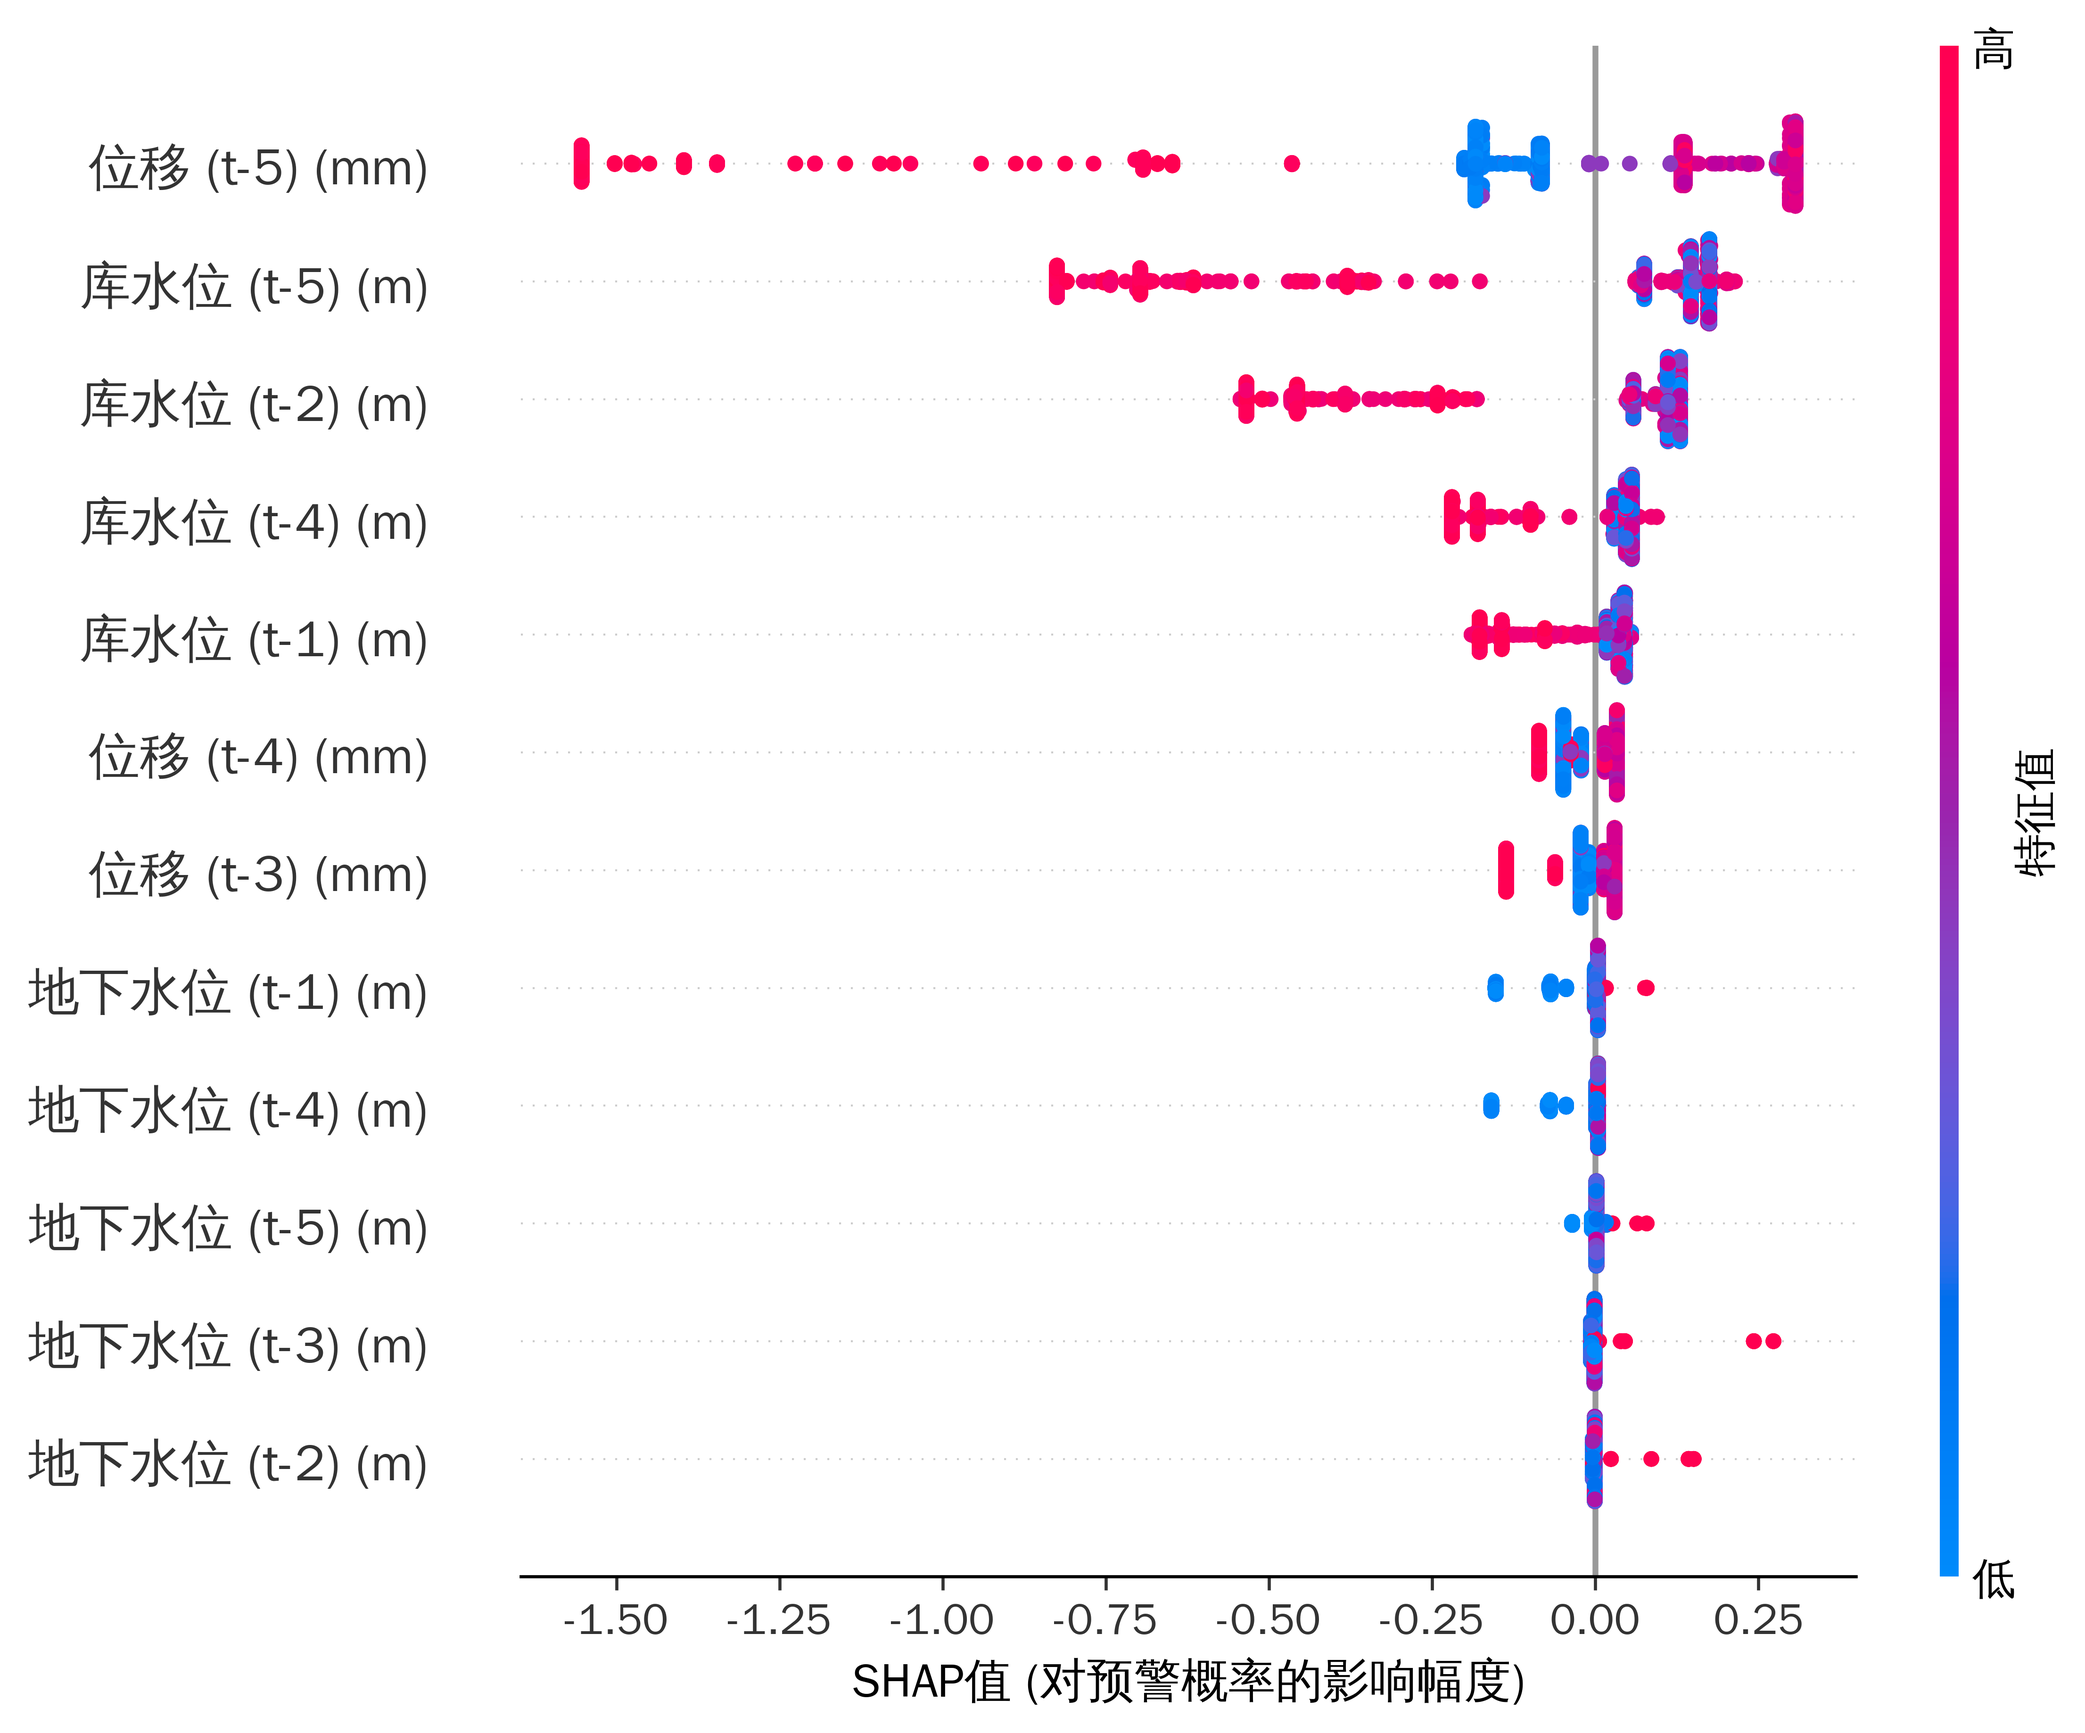
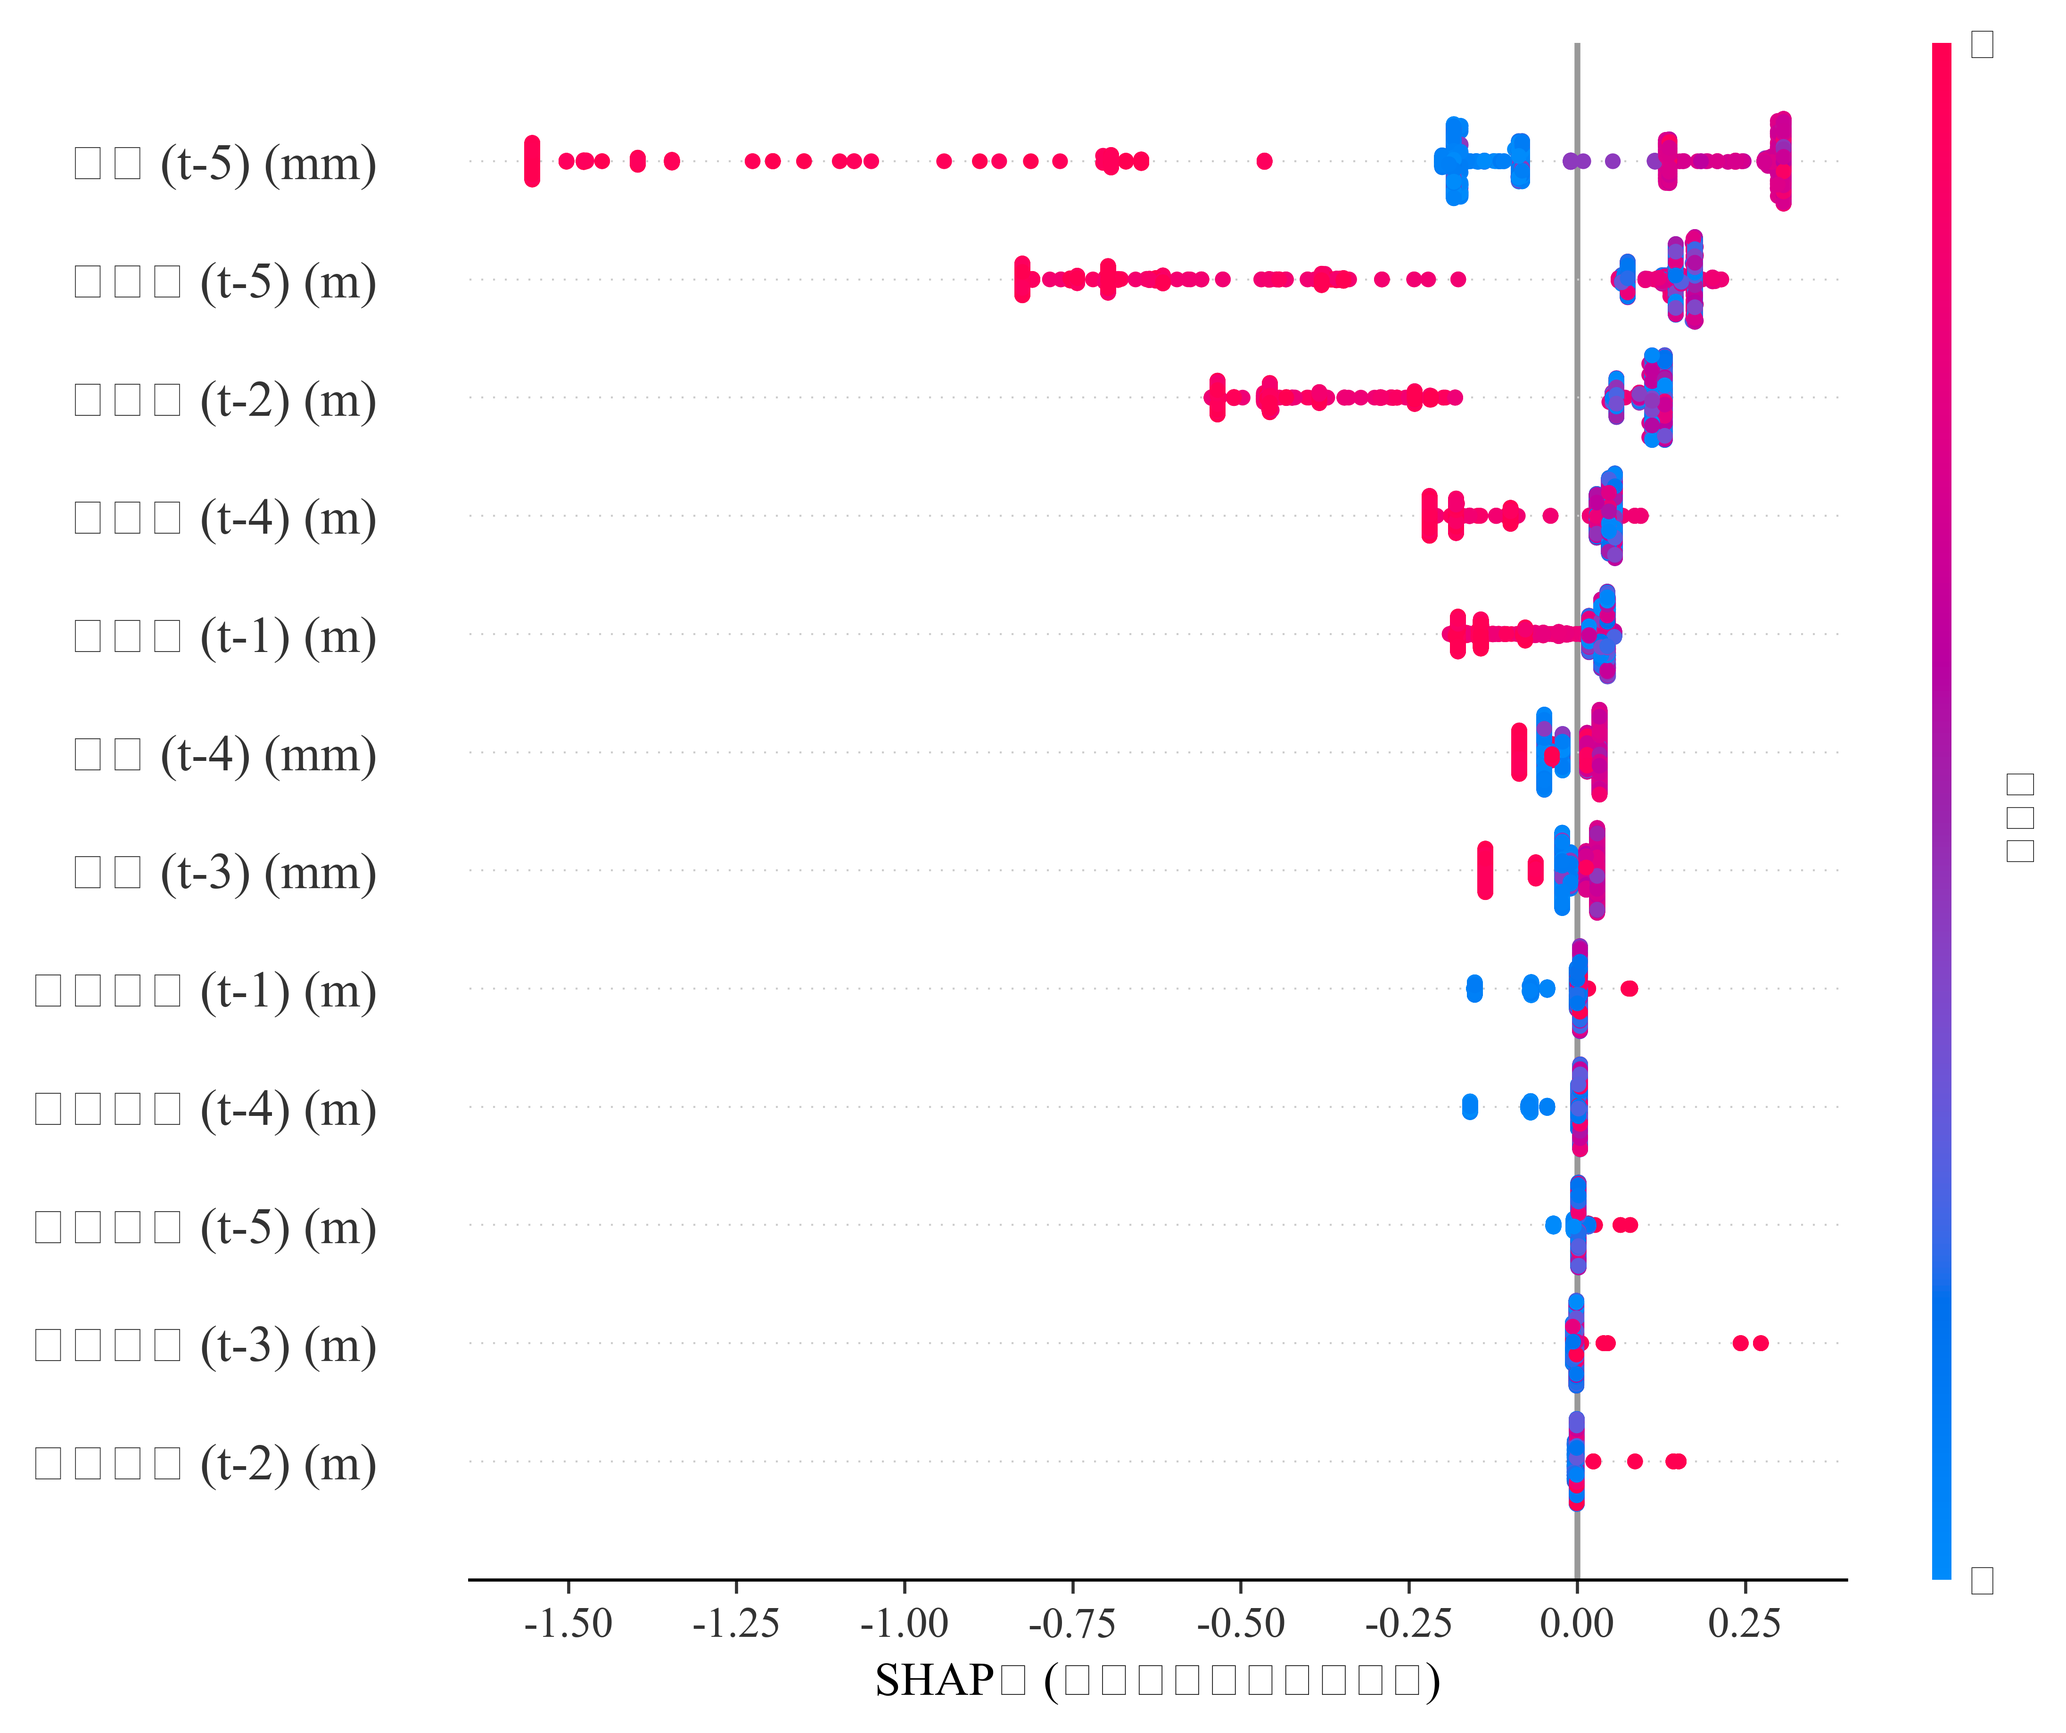
重新生成chapter2图表，使用Times New Roman和SimSun字体
修改内容：
- lgbm_shap_warning.py: 添加sys.path以导入utils模块
- shap_analysis.py: _save_figure()同时生成PDF格式
- 清除matplotlib字体缓存，重建字体列表
- 使用uv环境重新运行脚本生成图表

生成的图表：
- shap_summary_regression.pdf (153KB)
- shap_summary_classification.pdf (136KB)
- 已复制到docs/latex/figures/chapter2/

字体验证：
- Times New Roman: ✓ 已加载
- SimSun: ✓ 已加载
- 无字体降级警告

diff --git a/code/chapter2/lgbm_shap_warning.py b/code/chapter2/lgbm_shap_warning.py
@@ -15,9 +15,12 @@
     - outputs/shap_summary_regression.png / .pdf
     - outputs/shap_summary_classification.png / .pdf
 """
+import sys
+from pathlib import Path
+sys.path.insert(0, str(Path(__file__).parent.parent / 'utils'))
+
 import numpy as np
 import pandas as pd
-from pathlib import Path
 from typing import List, Tuple
 
 import matplotlib.pyplot as plt

diff --git a/code/chapter2/shap_analysis.py b/code/chapter2/shap_analysis.py
@@ -119,6 +119,7 @@ def _save_figure(output_dir: Path, stem: str) -> None:
     """保存高清 PNG（600 dpi）和矢量 PDF"""
     output_dir.mkdir(parents=True, exist_ok=True)
     plt.savefig(output_dir / f"{stem}.png", dpi=600, bbox_inches="tight")
+    plt.savefig(output_dir / f"{stem}.pdf", dpi=300, bbox_inches="tight", format='pdf')
     plt.close()
 
 
